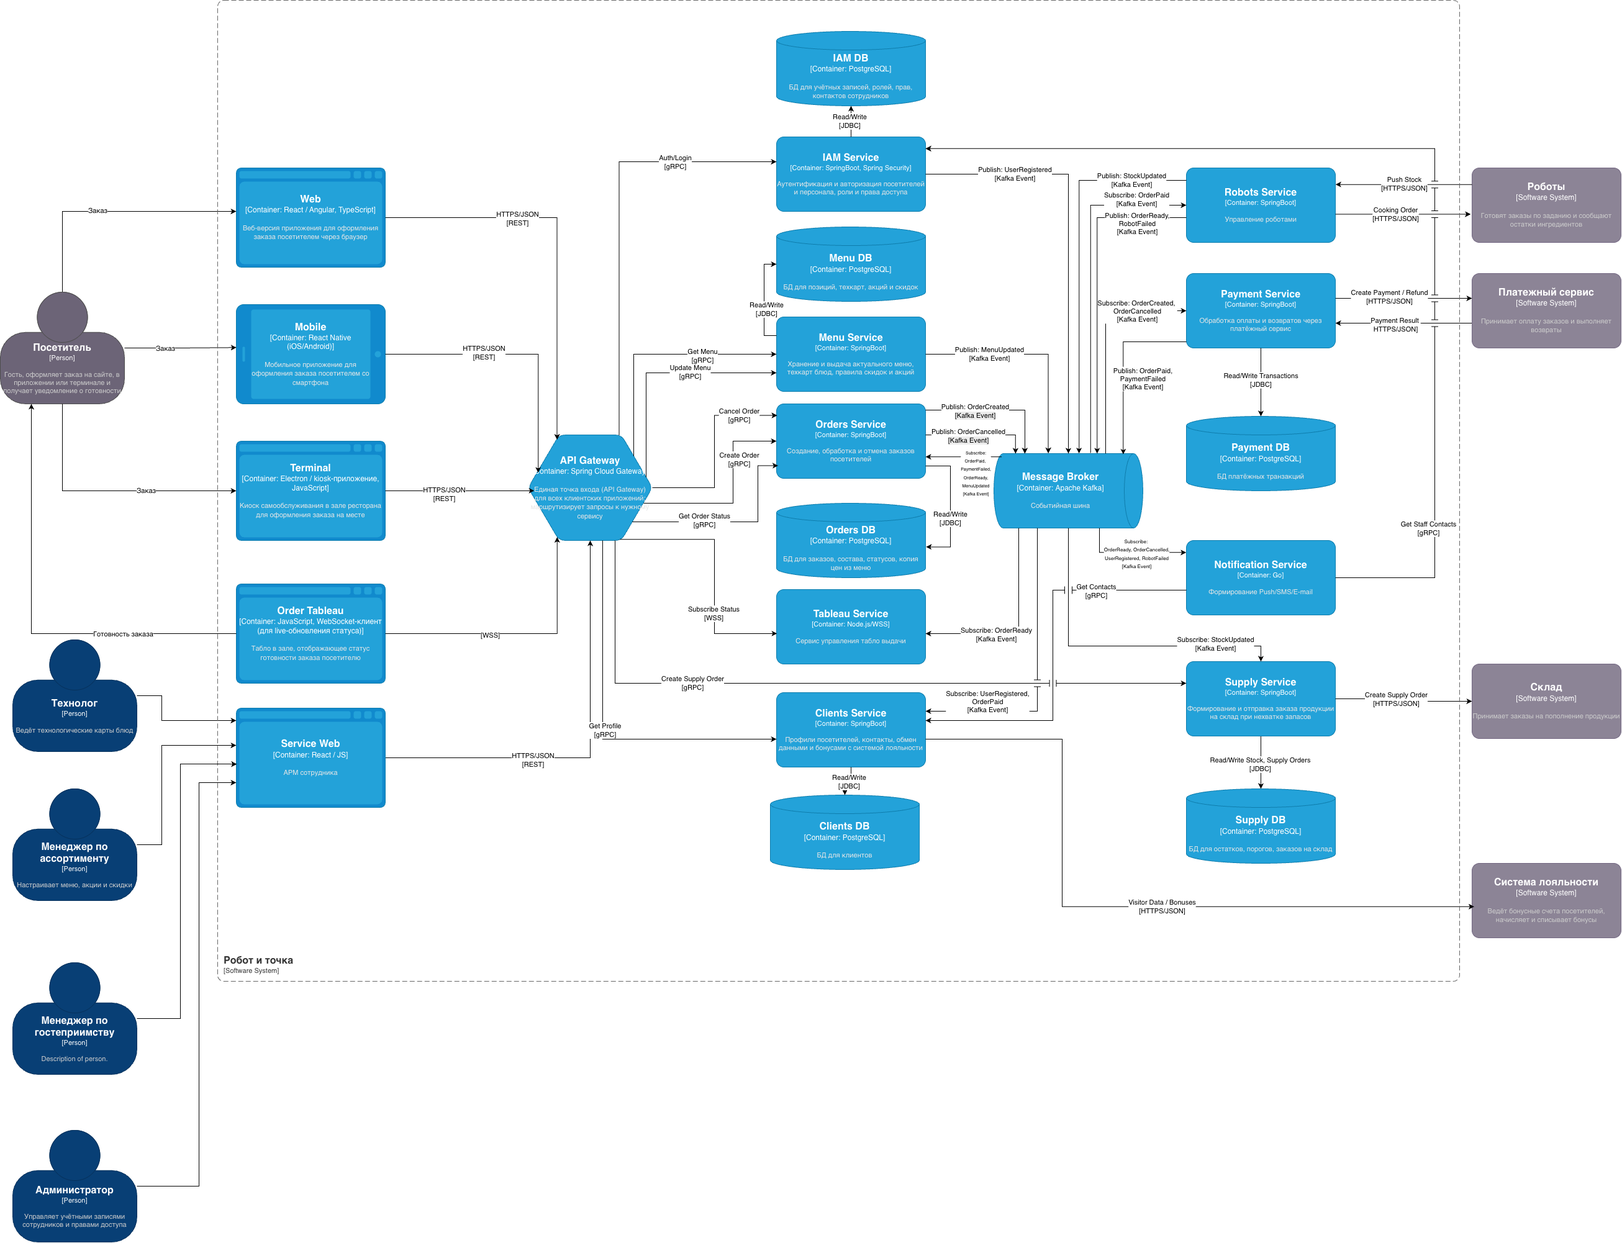
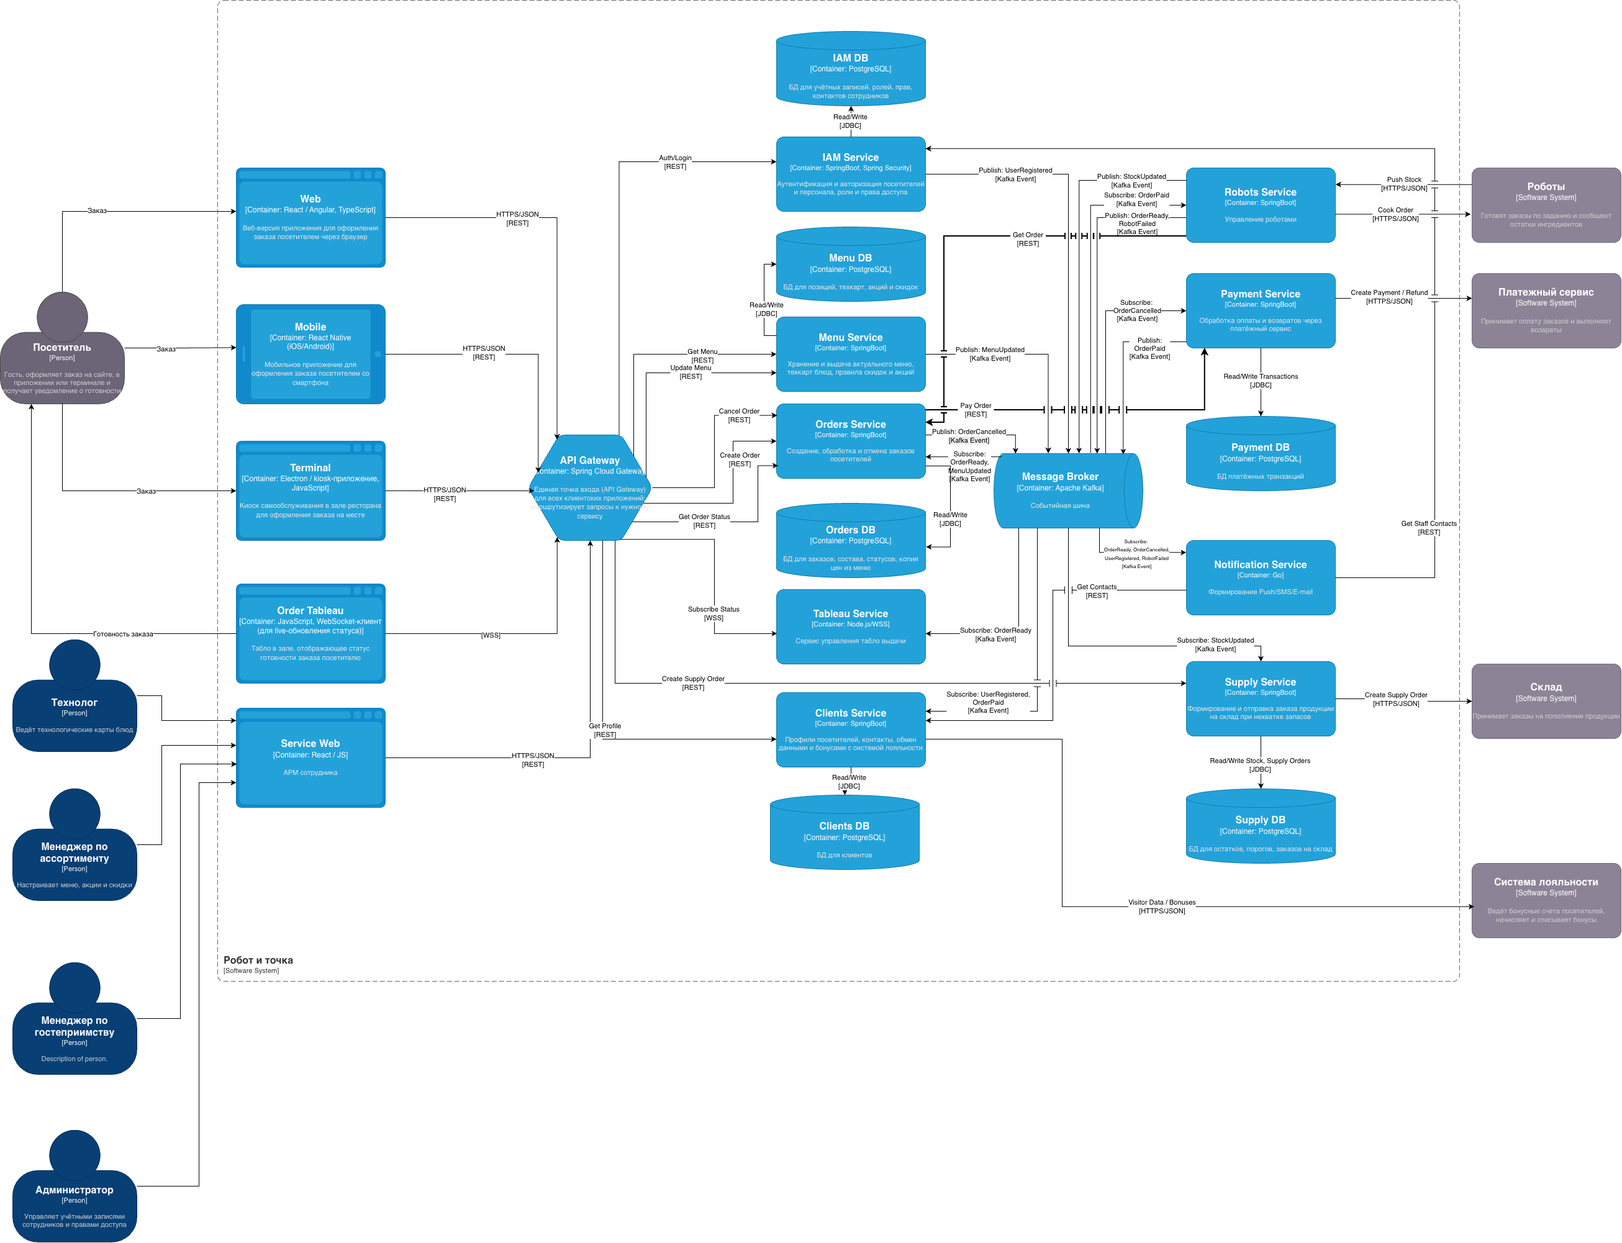
syncron payment
payment syncron with orders and also refuse grpc

diff --git a/docs/02-information-flows.md b/docs/02-information-flows.md
@@ -27,11 +27,11 @@
 
 | # | Источник | Приёмник | Информация | Протокол |
 |---|---|---|---|---|
-| C1 | API Gateway | IAM Service | Логин, проверка прав (Auth/Login) | gRPC |
-| C2 | API Gateway | Menu Service | Запрос меню (Get Menu), изменение меню (Update Menu) | gRPC |
-| C3 | API Gateway | Orders Service | Создание заказа (состав, сумма), отмена (ID заказа), статус заказа | gRPC |
-| C4 | API Gateway | Clients Service | Профиль посетителя (Get Profile) | gRPC |
-| C5 | API Gateway | Supply Service | Ручной заказ продукции (позиции, количество) | gRPC |
+| C1 | API Gateway | IAM Service | Логин, проверка прав (Auth/Login) | REST |
+| C2 | API Gateway | Menu Service | Запрос меню (Get Menu), изменение меню (Update Menu) | REST |
+| C3 | API Gateway | Orders Service | Создание заказа (состав, сумма), отмена (ID заказа), статус заказа; в ответе на создание результат оплаты | REST |
+| C4 | API Gateway | Clients Service | Профиль посетителя (Get Profile) | REST |
+| C5 | API Gateway | Supply Service | Ручной заказ продукции (позиции, количество) | REST |
 | C6 | API Gateway | Tableau Service | Подписка табло на статусы (Subscribe Status) | WSS |
 
 ## D. Событийный обмен через Kafka
@@ -40,44 +40,44 @@
 
 | # | Источник | Приёмник | Информация | Протокол |
 |---|---|---|---|---|
-| D1 | Orders Service | Message Broker | `OrderCreated`: ID заказа, состав, сумма | Kafka |
-| D2 | Orders Service | Message Broker | `OrderCancelled`: ID заказа | Kafka |
-| D3 | Payment Service | Message Broker | `OrderPaid`, `PaymentFailed`: ID заказа, сумма, результат | Kafka |
-| D4 | Robots Service | Message Broker | `OrderReady`: ID заказа | Kafka |
-| D5 | Robots Service | Message Broker | `StockUpdated`: ингредиент, количество | Kafka |
-| D6 | Robots Service | Message Broker | `RobotFailed`: описание сбоя | Kafka |
-| D7 | IAM Service | Message Broker | `UserRegistered`: ID клиента, контакты | Kafka |
-| D8 | Menu Service | Message Broker | `MenuUpdated`: изменённые позиции и цены | Kafka |
+| D1 | Orders Service | Message Broker | `OrderCancelled`: ID заказа | Kafka |
+| D2 | Payment Service | Message Broker | `OrderPaid`: ID заказа, ID клиента, сумма | Kafka |
+| D3 | Robots Service | Message Broker | `OrderReady`: ID заказа | Kafka |
+| D4 | Robots Service | Message Broker | `StockUpdated`: ингредиент, количество | Kafka |
+| D5 | Robots Service | Message Broker | `RobotFailed`: описание сбоя | Kafka |
+| D6 | IAM Service | Message Broker | `UserRegistered`: ID клиента, контакты | Kafka |
+| D7 | Menu Service | Message Broker | `MenuUpdated`: изменённые позиции и цены | Kafka |
 
 Подписка (Kafka → сервис):
 
 | # | Источник | Приёмник | Информация | Протокол |
 |---|---|---|---|---|
-| D9 | Message Broker | Payment Service | `OrderCreated`, `OrderCancelled` | Kafka |
-| D10 | Message Broker | Robots Service | `OrderPaid` | Kafka |
-| D11 | Message Broker | Orders Service | `OrderPaid`, `PaymentFailed`, `OrderReady`, `MenuUpdated` | Kafka |
-| D12 | Message Broker | Clients Service | `UserRegistered`, `OrderPaid` | Kafka |
-| D13 | Message Broker | Supply Service | `StockUpdated` | Kafka |
-| D14 | Message Broker | Tableau Service | `OrderReady` | Kafka |
-| D15 | Message Broker | Notification Service | `OrderReady`, `OrderCancelled`, `UserRegistered`, `RobotFailed` | Kafka |
+| D8 | Message Broker | Payment Service | `OrderCancelled` | Kafka |
+| D9 | Message Broker | Robots Service | `OrderPaid` | Kafka |
+| D10 | Message Broker | Orders Service | `OrderReady`, `MenuUpdated` | Kafka |
+| D11 | Message Broker | Clients Service | `UserRegistered`, `OrderPaid` | Kafka |
+| D12 | Message Broker | Supply Service | `StockUpdated` | Kafka |
+| D13 | Message Broker | Tableau Service | `OrderReady` | Kafka |
+| D14 | Message Broker | Notification Service | `OrderReady`, `OrderCancelled`, `UserRegistered`, `RobotFailed` | Kafka |
 
 ## E. Сервис → сервис (синхронно)
 
 | # | Источник | Приёмник | Информация | Протокол |
 |---|---|---|---|---|
-| E1 | Notification Service | Clients Service | Контакты посетителя (Get Contacts) | gRPC |
-| E2 | Notification Service | IAM Service | Контакты сотрудника (Get Staff Contacts) | gRPC |
+| E1 | Orders Service | Payment Service | Оплата заказа (Pay Order): ID заказа, ID клиента, сумма; в ответе результат оплаты | REST |
+| E2 | Robots Service | Orders Service | Запрос заказа (Get Order): ID заказа; в ответе состав заказа | REST |
+| E3 | Notification Service | Clients Service | Контакты посетителя (Get Contacts) | REST |
+| E4 | Notification Service | IAM Service | Контакты сотрудника (Get Staff Contacts) | REST |
 
 ## F. Сервисы ↔ внешние системы
 
 | # | Источник | Приёмник | Информация | Протокол |
 |---|---|---|---|---|
-| F1 | Payment Service | Платёжный сервис | Оплата и возврат (ID заказа, сумма) | HTTPS/JSON |
-| F2 | Платёжный сервис | Payment Service | Результат оплаты | HTTPS/JSON |
-| F3 | Robots Service | Роботы | Заказ на приготовление (состав заказа) | HTTPS/JSON |
-| F4 | Роботы | Robots Service | Остатки ингредиентов | HTTPS/JSON |
-| F5 | Supply Service | Склад | Заказ продукции (позиции, количество) | HTTPS/JSON |
-| F6 | Clients Service | Система лояльности | Данные посетителя, сумма заказа; в ответе баланс бонусов | HTTPS/JSON |
+| F1 | Payment Service | Платёжный сервис | Оплата и возврат (ID заказа, сумма); в ответе результат | HTTPS/JSON |
+| F2 | Robots Service | Роботы | Заказ на приготовление (Cook Order): состав заказа | HTTPS/JSON |
+| F3 | Роботы | Robots Service | Остатки ингредиентов (Push Stock) | HTTPS/JSON |
+| F4 | Supply Service | Склад | Заказ продукции (позиции, количество) | HTTPS/JSON |
+| F5 | Clients Service | Система лояльности | Данные посетителя, сумма заказа; в ответе баланс бонусов | HTTPS/JSON |
 
 ## G. Сервисы → базы данных
 

diff --git a/docs/01-components.md b/docs/01-components.md
@@ -33,22 +33,22 @@
 
 | Контейнер | Технология | Назначение | Взаимодействует с |
 |---|---|---|---|
-| API Gateway | Spring Cloud Gateway | Единая точка входа: маршрутизация запросов, перевод REST в gRPC, проверка токена. Бизнес-логики не содержит | Клиентские приложения; IAM, Menu, Orders, Clients, Supply (gRPC); Tableau Service (WSS) |
+| API Gateway | Spring Cloud Gateway | Единая точка входа: маршрутизация запросов и проверка токена. Бизнес-логики не содержит | Клиентские приложения; IAM, Menu, Orders, Clients, Supply (REST); Tableau Service (WSS) |
 | Message Broker | Apache Kafka | Событийная шина между сервисами | Все сервисы, публикующие или читающие события |
 
 ## Микросервисы
 
 | Сервис | Технология | Назначение | Взаимодействует с (и для чего) | Своя БД |
 |---|---|---|---|---|
-| IAM Service | SpringBoot, Spring Security | Аутентификация и авторизация посетителей и персонала, роли и права | Gateway: вход; Notification: контакты сотрудников; Kafka: публикует `UserRegistered` | IAM DB |
+| IAM Service | SpringBoot, Spring Security | Аутентификация и авторизация посетителей и персонала, роли и права | Gateway: вход; Notification: контакты сотрудников (REST); Kafka: публикует `UserRegistered` | IAM DB |
 | Menu Service | SpringBoot | Хранение и выдача актуального меню, техкарт, правил скидок и акций | Gateway: выдача и правка меню; Kafka: публикует `MenuUpdated` | Menu DB |
-| Orders Service | SpringBoot | Создание, обработка и отмена заказов, хранение статуса | Gateway: создать, отменить, статус; Kafka: публикует `OrderCreated`, `OrderCancelled`, читает `OrderPaid`, `PaymentFailed`, `OrderReady`, `MenuUpdated` | Orders DB |
-| Clients Service | SpringBoot | Профили посетителей, контакты, обмен данными и бонусами с системой лояльности | Gateway: профиль; Notification: контакты; Kafka: читает `UserRegistered`, `OrderPaid`; Система лояльности | Clients DB |
-| Payment Service | SpringBoot | Обработка оплаты и возвратов через платёжный сервис | Kafka: читает `OrderCreated`, `OrderCancelled`, публикует `OrderPaid`, `PaymentFailed`; Платёжный сервис | Payment DB |
-| Robots Service | SpringBoot | Передача заказа роботам, приём остатков и статусов | Kafka: читает `OrderPaid`, публикует `OrderReady`, `StockUpdated`, `RobotFailed`; Роботы | нет (адаптер) |
+| Orders Service | SpringBoot | Создание, обработка и отмена заказов, хранение статуса | Gateway: создать, отменить, статус; Payment: оплата заказа (`Pay Order`, REST, результат в ответе); Robots: отдаёт состав заказа (`Get Order`); Kafka: публикует `OrderCancelled`, читает `OrderReady`, `MenuUpdated` | Orders DB |
+| Clients Service | SpringBoot | Профили посетителей, контакты, обмен данными и бонусами с системой лояльности | Gateway: профиль; Notification: контакты (REST); Kafka: читает `UserRegistered`, `OrderPaid`; Система лояльности | Clients DB |
+| Payment Service | SpringBoot | Обработка оплаты и возвратов через платёжный сервис | Orders: принимает `Pay Order` и сразу возвращает результат; Kafka: читает `OrderCancelled` (возврат), публикует `OrderPaid`; Платёжный сервис | Payment DB |
+| Robots Service | SpringBoot | Передача заказа роботам, приём остатков и статусов | Kafka: читает `OrderPaid`, публикует `OrderReady`, `StockUpdated`, `RobotFailed`; Orders: запрашивает состав заказа; Роботы | нет (адаптер) |
 | Supply Service | SpringBoot | Формирование и отправка заказа продукции на склад при нехватке запасов | Gateway: ручной заказ; Kafka: читает `StockUpdated`; Склад | Supply DB |
 | Tableau Service | Node.js / WSS | Управление табло выдачи: рассылает статус готовности | Kafka: читает `OrderReady`; Gateway: соединение с табло | нет |
-| Notification Service | Go | Формирование и отправка Push/SMS/E-mail посетителям и сотрудникам по событиям | Kafka: читает `OrderReady`, `OrderCancelled`, `UserRegistered`, `RobotFailed`; Clients, IAM: контакты | нет |
+| Notification Service | Go | Формирование и отправка Push/SMS/E-mail посетителям и сотрудникам по событиям | Kafka: читает `OrderReady`, `OrderCancelled`, `UserRegistered`, `RobotFailed`; Clients, IAM: контакты (REST) | нет |
 
 ## Базы данных
 

diff --git a/docs/03-kafka-events.md b/docs/03-kafka-events.md
@@ -5,19 +5,23 @@
 
 | Событие | Публикует | Читают | Что в событии | Реакция |
 |---|---|---|---|---|
-| `OrderCreated` | Orders | Payment | ID заказа, состав, сумма | Запросить оплату |
+| `OrderPaid` | Payment | Robots, Clients | ID заказа, ID клиента, сумма | Robots: запросить состав у Orders и начать готовку; Clients: начислить бонусы |
 | `OrderCancelled` | Orders | Payment, Notification | ID заказа | Возврат; уведомление |
-| `OrderPaid` | Payment | Robots, Orders, Clients | ID заказа, сумма | Начать готовку; обновить статус; начислить бонусы |
-| `PaymentFailed` | Payment | Orders | ID заказа | Обновить статус |
 | `OrderReady` | Robots | Tableau Service, Notification, Orders | ID заказа | Показать на табло; уведомить; обновить статус |
 | `StockUpdated` | Robots | Supply | Ингредиент, количество | Сохранить остаток, при необходимости заказать на склад |
 | `RobotFailed` | Robots | Notification | Описание сбоя | Уведомить менеджера по гостеприимству |
 | `UserRegistered` | IAM | Clients, Notification | ID клиента, контакты | Создать профиль; приветствие |
 | `MenuUpdated` | Menu | Orders | Изменённые позиции и цены | Обновить копию цен |
 
+Оплата в Kafka не участвует: Orders вызывает Payment синхронно (`Pay Order`, REST) и получает результат в ответе.
+После успешной оплаты Payment публикует `OrderPaid` для остальных сервисов. В событиях только идентификаторы и ключевые значения;
+состав заказа Robots запрашивает у Orders (`Get Order`, REST).
+
 ## Цепочка главного сценария
 
 ```
-Orders --OrderCreated--> Payment --OrderPaid--> Robots --OrderReady--> Tableau Service, Notification
-                                         └─────> Orders (статус), Clients (бонусы)
+Orders --REST: Pay Order--> Payment --(результат в ответе)--> Orders --> клиент
+Payment --OrderPaid--> Robots, Clients
+Robots --REST: Get Order--> Orders              (состав заказа)
+Robots --OrderReady--> Tableau Service, Notification, Orders
 ```

diff --git a/README.md b/README.md
@@ -22,8 +22,8 @@
 |---|---|
 | Клиентские приложения → API Gateway | HTTPS/JSON (REST) |
 | Order Tableau ↔ API Gateway ↔ Tableau Service | WSS (WebSocket) |
-| API Gateway → сервисы | gRPC |
-| Сервис ↔ сервис (синхронно) | gRPC |
+| API Gateway → сервисы | HTTPS/JSON (REST) |
+| Сервис ↔ сервис (синхронно: оплата, запрос данных) | HTTPS/JSON (REST) |
 | Сервис ↔ сервис (события) | Apache Kafka |
 | Сервис → своя БД | JDBC (PostgreSQL) |
 | Сервис ↔ внешняя система | HTTPS/JSON (допущение, API внешних систем неизвестен) |
